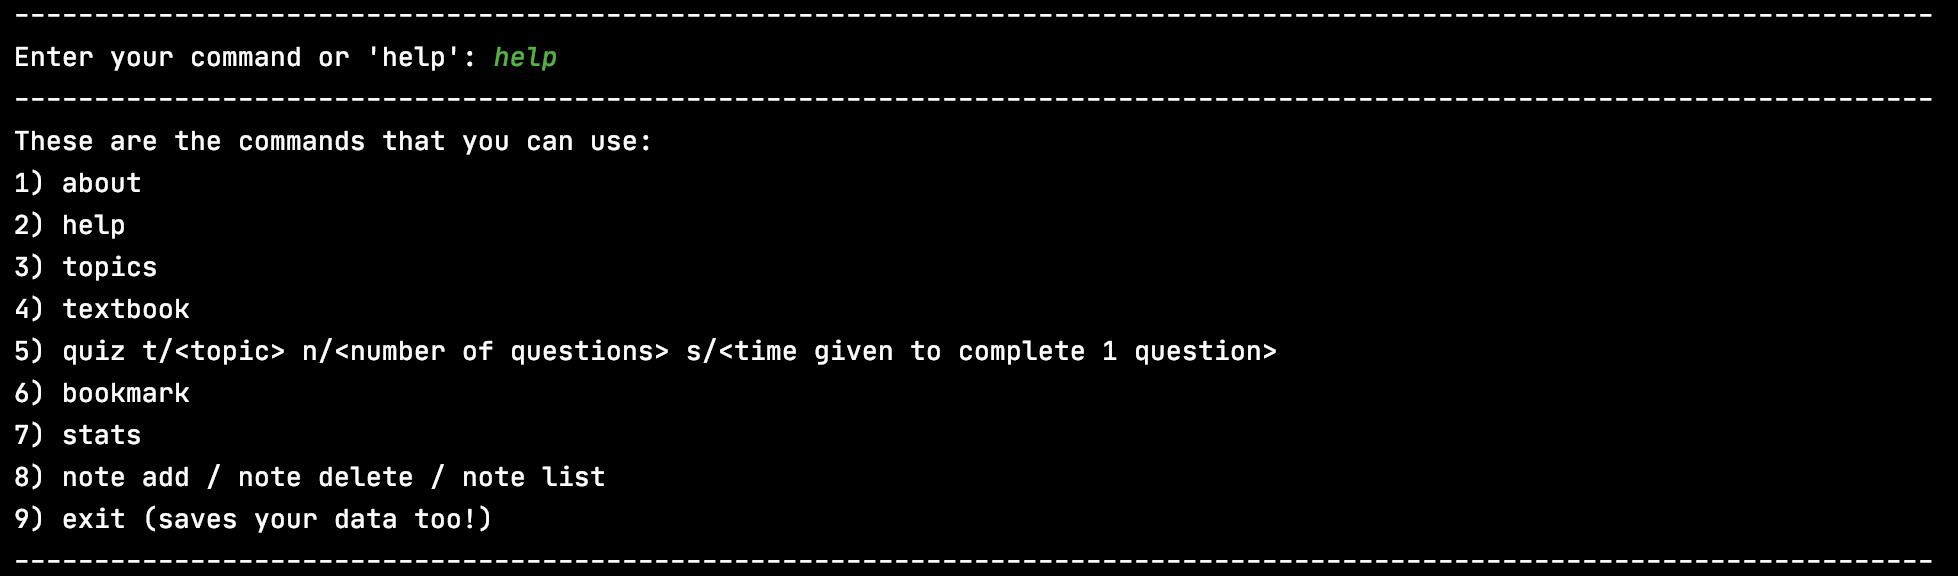
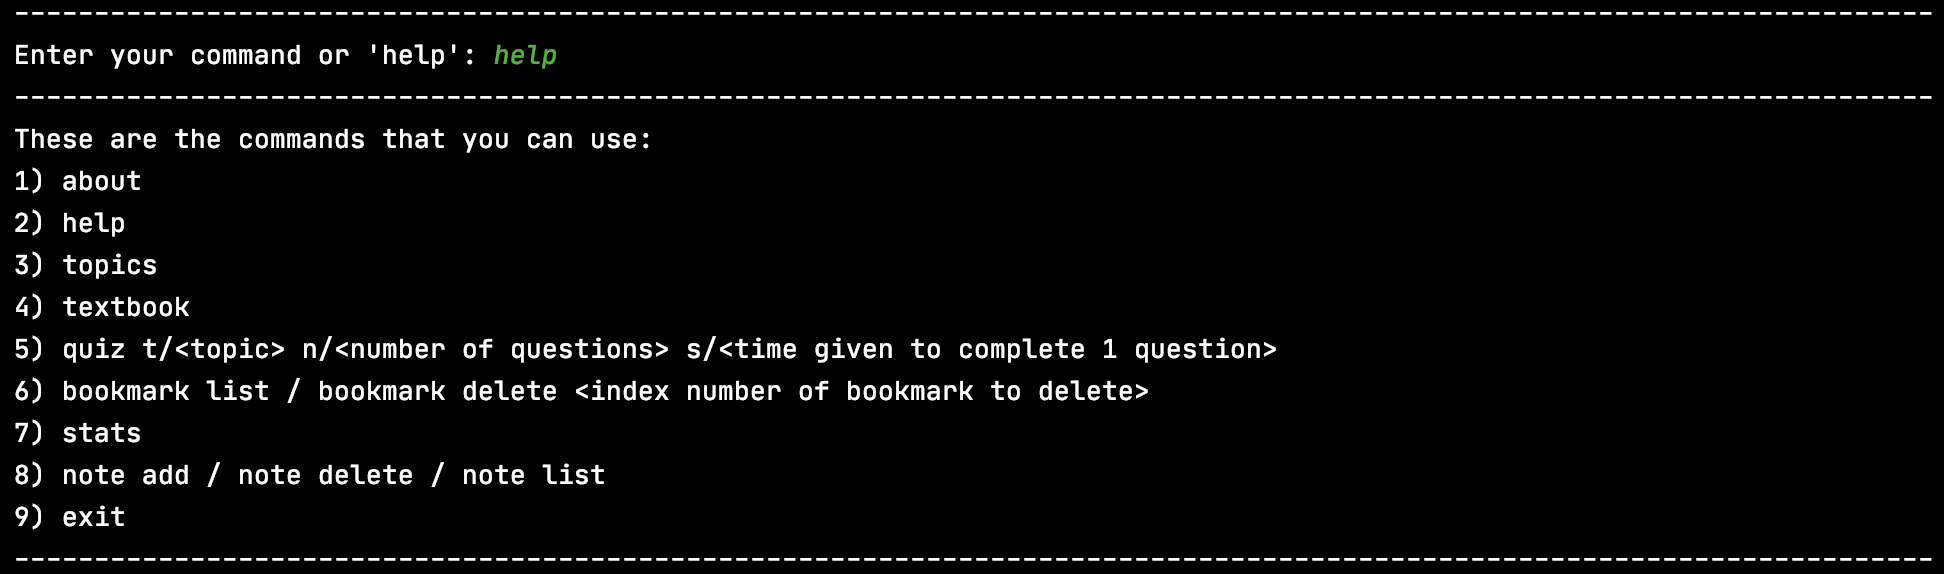
Update the images for bookmark and help Remove magic literals from BookmarkCommand Update the UI (Help)

diff --git a/src/main/java/seedu/eduke8/command/BookmarkCommand.java b/src/main/java/seedu/eduke8/command/BookmarkCommand.java
@@ -1,13 +1,12 @@
 package seedu.eduke8.command;
 
 import seedu.eduke8.bookmark.BookmarkList;
-import seedu.eduke8.common.Displayable;
 import seedu.eduke8.common.DisplayableList;
 import seedu.eduke8.exception.Eduke8Exception;
 import seedu.eduke8.question.Question;
 import seedu.eduke8.ui.Ui;
 
-import java.util.ArrayList;
+import static seedu.eduke8.exception.ExceptionMessages.ERROR_BOOKMARK_NONE;
 
 public class BookmarkCommand extends Command {
     private static final String BOOKMARK_LIST = "listing";
@@ -37,14 +36,14 @@ public class BookmarkCommand extends Command {
         this.typeOfBookmarkCommand = typeOfBookmarkCommand;
         this.bookmarkList = bookmarkList;
         if (bookmarkList.getCount() == 0) {
-            throw new Eduke8Exception("You currently do not have any bookmarks stored.");
+            throw new Eduke8Exception(ERROR_BOOKMARK_NONE);
         }
     }
 
     public BookmarkCommand(int deleteIndex, String typeOfBookmarkCommand, BookmarkList bookmarkList)
             throws Eduke8Exception {
         if (bookmarkList.getCount() == 0) {
-            throw new Eduke8Exception("You currently do not have any bookmarks stored.");
+            throw new Eduke8Exception(ERROR_BOOKMARK_NONE);
         }
         this.typeOfBookmarkCommand = typeOfBookmarkCommand;
         this.bookmarkList = bookmarkList;

diff --git a/src/main/java/seedu/eduke8/ui/Ui.java b/src/main/java/seedu/eduke8/ui/Ui.java
@@ -62,7 +62,7 @@ public class Ui {
             + System.lineSeparator() + "3) topics"
             + System.lineSeparator() + "4) textbook"
             + System.lineSeparator() + "5) quiz t/<topic> n/<number of questions> s/<time given to complete 1 question>"
-            + System.lineSeparator() + "6) bookmark / bookmark delete <index number of bookmark to delete>"
+            + System.lineSeparator() + "6) bookmark list / bookmark delete <index number of bookmark to delete>"
             + System.lineSeparator() + "7) stats"
             + System.lineSeparator() + "8) note add / note delete / note list"
             + System.lineSeparator() + "9) exit";

diff --git a/src/main/java/seedu/eduke8/exception/ExceptionMessages.java b/src/main/java/seedu/eduke8/exception/ExceptionMessages.java
@@ -40,4 +40,5 @@ public class ExceptionMessages {
     public static final String ERROR_BOOKMARK_DELETE_NFE = "Please type in an integer into the index number field!";
     public static final String ERROR_BOOKMARK_DELETE_IOB_ERROR = "Please choose an appropriate index number to be "
             + "deleted from the list!";
+    public static final String ERROR_BOOKMARK_NONE = "You currently do not have any bookmarks stored.";
 }

diff --git a/docs/UserGuide.md b/docs/UserGuide.md
@@ -247,7 +247,7 @@ bookmark list
 
 What you should see:
 
-![data saving](./images/bookmark_list.jpg)
+![data saving](./images/bookmark_list.png)
 
 <div style="page-break-after: always;"></div>
 
@@ -268,7 +268,7 @@ bookmark delete 2
 
 What you should see:
 
-![bookmark](./images/bookmark_delete.jpg)
+![bookmark](./images/bookmark_delete.png)
 
 <div style="page-break-after: always;"></div>
 
